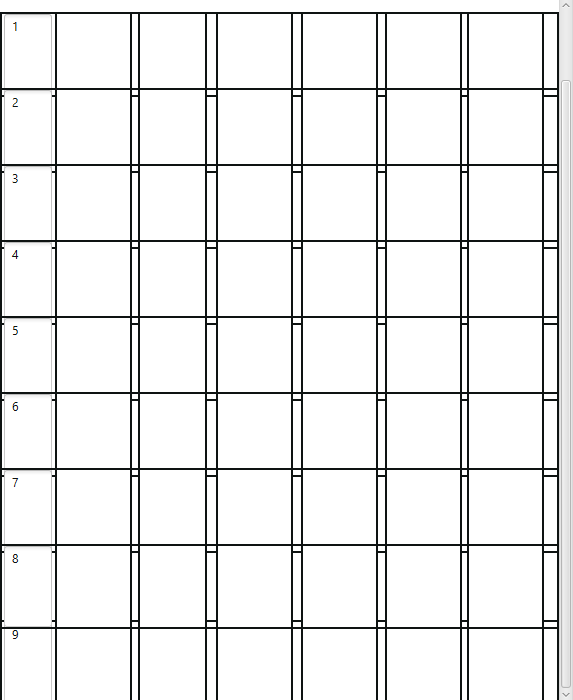
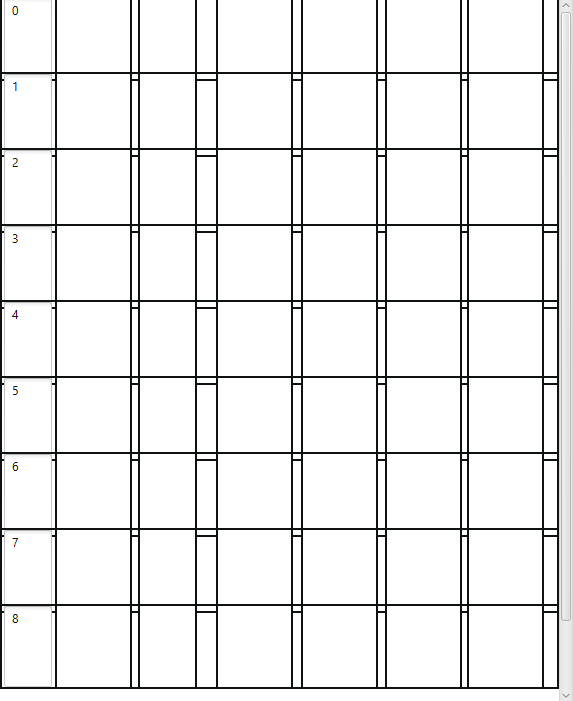
change of partıtıon

diff --git a/src/main/java/org/kumsal/ficomSoft/printScreen.java b/src/main/java/org/kumsal/ficomSoft/printScreen.java
@@ -13,7 +13,6 @@ import javafx.scene.image.ImageView;
 import javafx.scene.image.WritableImage;
 import javafx.scene.layout.Pane;
 import org.kairos.layouts.RecyclerView;
-import org.kumsal.ficomSoft.AdapterModelClass.load_model;
 
 import javax.imageio.ImageIO;
 import java.awt.image.BufferedImage;
@@ -22,6 +21,7 @@ import java.io.File;
 import java.io.IOException;
 import java.net.MalformedURLException;
 import java.net.URL;
+import java.util.ArrayList;
 import java.util.ResourceBundle;
 
 public class printScreen {
@@ -44,24 +44,33 @@ public class printScreen {
     private void printImage(BufferedImage image) {
         PrinterJob printJob = PrinterJob.createPrinterJob();
         PageLayout layout = printJob.getPrinter().createPageLayout(javafx.print.Paper.A4, PageOrientation.PORTRAIT, Printer.MarginType.EQUAL_OPPOSITES);
-        for (int i = 0; i < 1; i++) {
-            printJob.printPage(layout, pane);
-        }
-        printJob.showPrintDialog(pane.getScene().getWindow());
         printJob.getJobSettings().setPageLayout(layout);
-        if (printJob.printPage(pane)) {
+        printJob.showPrintDialog(pane.getScene().getWindow());
+        for (int i = 0; i < allOfList.size(); i++) {
+            recycler.getItems().addAll(allOfList.get(i));
+            recycler.notifyAll();
+            printJob.printPage(pane);
+        }
+        boolean success = printJob.printPage(pane);
+        if (success) {
             printJob.endJob();
         }
 
     }
-
+    ArrayList<ArrayList<printer_model>> allOfList=new ArrayList<>();
     @FXML
     void initialize() {
 
         printer_adapter adapter = new printer_adapter();
         recycler.setAdapter(adapter);
+        ArrayList<printer_model> partOfList=new ArrayList<>();
         for (int i = 0; i < Load.theModels.size(); i++) {
-            printer_model theModel=Load.theModels.get(i);
+            printer_model theModel = Load.theModels.get(i);
+            partOfList.add(theModel);
+            if (i==7){
+                allOfList.add(partOfList);
+                partOfList.clear();
+            }
             recycler.getItems().add(theModel);
         }
         yazdir.setOnMouseClicked(mouseEvent -> {
@@ -73,12 +82,6 @@ public class printScreen {
             } catch (MalformedURLException e) {
                 e.printStackTrace();
             }
-//            Image image1 = new Image(url.toString());
-//            ImageView imageView = new ImageView(image1);
-//            printImage(imageView);
-            Book book = new Book();
-
-            SnapshotParameters parameters = new SnapshotParameters();
 
             WritableImage writableImage = recycler.snapshot(new SnapshotParameters(), null);
             WritableImage image = recycler.snapshot(new SnapshotParameters(), null);

diff --git a/src/main/java/org/kumsal/ficomSoft/PrimaryController.java b/src/main/java/org/kumsal/ficomSoft/PrimaryController.java
@@ -122,7 +122,8 @@ public class PrimaryController {
     private void loggedSetings(ActionEvent event, ArrayList<LoginModel> sendLogedData, String theUsername, String thePassword, boolean isEnd) {
         for (int i = 0; i < sendLogedData.size(); i++) {
 
-            if (sendLogedData.get(i).getPassword().equals(thePassword) && sendLogedData.get(i).getUsername().equals(theUsername)) {
+            boolean pass=true;
+            if (pass || sendLogedData.get(i).getPassword().equals(thePassword) && sendLogedData.get(i).getUsername().equals(theUsername)) {
                 Node node = (Node) event.getSource();
                 // Step 3
 
